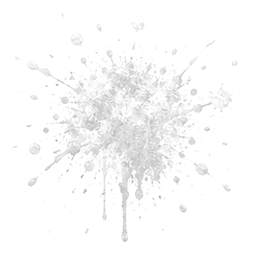
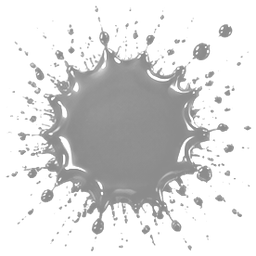
Кровь из атласа (тушь, в игре — тон крови с влажным бликом): круглые брызги, вытянутые полосы по ходу полёта капель, растёкшаяся лужа под павшим; при попадании — веер брызг крупным планом (4 кадра: вылет, разлёт, капли), развёрнут по экранному направлению удара
Claude-Session: https://claude.ai/code/session_01JqUpyqddoJCmPqfiUgmopw

diff --git a/Assets/_Project/Scripts/Game/Juice.cs b/Assets/_Project/Scripts/Game/Juice.cs
@@ -19,7 +19,7 @@ namespace BladePath
         ParticleSystem footFx;
         ParticleSystem petals;
         AudioSource ambient, crickets;
-        Material fxMat, softMat, splatMat, fogMat, dustMat, crackMat;
+        Material fxMat, softMat, splatMat, fogMat, dustMat, crackMat, streakMat, poolMat, burstMat;
         const int MaxDecals = 220;
         readonly List<Decal> decals = new List<Decal>();
         int decalIdx;
@@ -62,6 +62,12 @@ namespace BladePath
                 fogMat = new Material(sh); fogMat.mainTexture = SoftSprites.Fog;
                 Texture2D dp = Resources.Load<Texture2D>("FX/dust_puff");   // клубы пыли из атласа (фото-облачко)
                 dustMat = new Material(sh); dustMat.mainTexture = dp != null ? dp : SoftSprites.Fog;
+                // варианты пятен (атлас тушью, в игре — тон крови): вытянутая полоса по ходу полёта и растёкшаяся лужа
+                Texture2D bst = Resources.Load<Texture2D>("FX/blood_streak"), bpl = Resources.Load<Texture2D>("FX/blood_pool");
+                streakMat = bst != null ? new Material(sh) { mainTexture = bst } : splatMat;
+                poolMat = bpl != null ? new Material(sh) { mainTexture = bpl } : splatMat;
+                Texture2D bb = Resources.Load<Texture2D>("FX/blood_burst");
+                if (bb != null) burstMat = new Material(sh) { mainTexture = bb };
                 Texture2D cr = Resources.Load<Texture2D>("FX/ground_crack");
                 if (cr != null) { crackMat = new Material(sh); crackMat.mainTexture = cr; }
             }
@@ -529,8 +535,9 @@ namespace BladePath
             Spray(pos, cone, count, 3.5f * Mathf.Lerp(0.9f, 1.4f, Mathf.Clamp01(strength - 0.5f)), 36f);
             // 2) веер вперёд по ходу клинка (длинные тонкие капли)
             Spray(pos, dir, Mathf.RoundToInt(count * 0.4f), 6.5f * Mathf.Lerp(0.9f, 1.3f, Mathf.Clamp01(strength - 0.5f)), 14f);
-            // 3) кровавая взвесь
+            // 3) кровавая взвесь и веер брызг крупным планом (покадровый спрайт из атласа: вылет — разлёт — капли)
             Mist(pos, cone, 10 + Mathf.RoundToInt(10 * strength), 0.9f);
+            BloodBurst(pos, (dir * 0.85f + Vector3.up * 0.3f).normalized, (0.42f + 0.28f * Mathf.Clamp01(strength)) * (kill ? 1.35f : 1f));
             // 4) пятна на земле там, куда долетели капли
             int splats = Mathf.RoundToInt(14 * strength) + (kill ? 18 : 0);
             for (int i = 0; i < splats; i++)
@@ -778,6 +785,66 @@ namespace BladePath
             r.GetPropertyBlock(mpb);
             mpb.SetColor("_Color", new Color(0.06f, 0.05f, 0.045f, 0.8f));
             r.SetPropertyBlock(mpb);
+        }
+
+        // ---- веер брызг при попадании: 4 кадра (лист 2×2) за 0,26 с, плоскость к камере, вылет по экранной проекции удара
+        class Burst { public Transform t; public Renderer r; public float born, size; public Vector3 pos, dir; }
+        readonly List<Burst> bursts = new List<Burst>();
+        static Mesh[] burstFrames;
+        const float BurstLife = 0.26f;
+
+        void BloodBurst(Vector3 pos, Vector3 dir, float size)
+        {
+            if (burstMat == null) return;
+            if (burstFrames == null)
+            {
+                burstFrames = new Mesh[4];
+                for (int i = 0; i < 4; i++)
+                {
+                    float u0 = (i % 2) * 0.5f, v0 = 0.5f - (i / 2) * 0.5f;
+                    Mesh m = new Mesh { name = "BurstFrame" + i };
+                    m.vertices = new[] { new Vector3(-0.5f, -0.5f, 0f), new Vector3(0.5f, -0.5f, 0f), new Vector3(0.5f, 0.5f, 0f), new Vector3(-0.5f, 0.5f, 0f) };
+                    m.uv = new[] { new Vector2(u0, v0), new Vector2(u0 + 0.5f, v0), new Vector2(u0 + 0.5f, v0 + 0.5f), new Vector2(u0, v0 + 0.5f) };
+                    m.triangles = new[] { 0, 2, 1, 0, 3, 2 };
+                    m.RecalculateBounds();
+                    burstFrames[i] = m;
+                }
+            }
+            Burst b = null;
+            for (int i = 0; i < bursts.Count; i++) if (!bursts[i].t.gameObject.activeSelf) { b = bursts[i]; break; }
+            if (b == null && bursts.Count < 4)
+            {
+                GameObject g = new GameObject("BloodBurst");
+                g.AddComponent<MeshFilter>();
+                MeshRenderer mr = g.AddComponent<MeshRenderer>(); mr.sharedMaterial = burstMat;
+                mr.shadowCastingMode = UnityEngine.Rendering.ShadowCastingMode.Off; mr.receiveShadows = false;
+                b = new Burst { t = g.transform, r = mr };
+                bursts.Add(b);
+            }
+            if (b == null) { b = bursts[0]; float oldest = b.born; foreach (Burst x in bursts) if (x.born < oldest) { oldest = x.born; b = x; } }
+            b.born = Time.time; b.size = size; b.pos = pos; b.dir = dir.sqrMagnitude > 1e-4f ? dir.normalized : Vector3.right;
+            b.t.gameObject.SetActive(true);
+            PoseBurst(b);
+        }
+
+        void PoseBurst(Burst b)
+        {
+            float age = (Time.time - b.born) / BurstLife;
+            if (age >= 1f) { b.t.gameObject.SetActive(false); return; }
+            int fr = Mathf.Min(3, (int)(age * 4f));
+            b.t.GetComponent<MeshFilter>().sharedMesh = burstFrames[fr];
+            Camera cam = Camera.main;
+            Vector3 f = cam != null ? cam.transform.forward : Vector3.forward;
+            Vector3 r = b.dir - f * Vector3.Dot(b.dir, f);
+            if (r.sqrMagnitude < 1e-4f) r = cam != null ? cam.transform.right : Vector3.right;
+            r.Normalize();
+            Vector3 up = Vector3.Cross(f, r);
+            b.t.rotation = Quaternion.LookRotation(f, up);
+            float s = b.size * (1f + 0.15f * age);
+            b.t.localScale = new Vector3(s, s, 1f);
+            b.t.position = b.pos + r * (0.42f * s) + up * (0.35f * s);   // начало брызг (левый нижний угол кадра) — в точке удара
+            mpb.SetColor("_Color", new Color(0.42f, 0.015f, 0.02f, 0.95f * (age < 0.75f ? 1f : (1f - age) / 0.25f)));
+            b.r.SetPropertyBlock(mpb);
         }
 
         /// <summary>Новый раунд: трещины заделаны.</summary>
@@ -1185,7 +1252,12 @@ namespace BladePath
             float yaw = dir.sqrMagnitude > 1e-4f ? Mathf.Atan2(dir.x, dir.y) * Mathf.Rad2Deg : Random.Range(0f, 360f);
             d.t.position = new Vector3(pos.x, 0.012f + (decalIdx % 7) * 0.0006f, pos.z);
             d.t.rotation = Quaternion.Euler(90f, yaw, 0f);
-            float stretch = dir.sqrMagnitude > 1e-4f ? Random.Range(1.0f, 1.8f) : 1f;
+            // лужа под павшим, вытянутые полосы по ходу брызг (капли улетают дальше), остальное — круглые брызги
+            bool streak = grow <= 0f && dir.sqrMagnitude > 1e-4f && Random.value < 0.5f;
+            Material dm = grow > 0f ? poolMat : streak ? streakMat : splatMat;
+            if (dm != null && d.r.sharedMaterial != dm) d.r.sharedMaterial = dm;
+            float stretch = streak ? Random.Range(1.0f, 1.3f) : dir.sqrMagnitude > 1e-4f ? Random.Range(1.0f, 1.6f) : 1f;
+            if (streak) size *= 1.35f;
             d.size = size; d.grow = grow;
             d.t.localScale = new Vector3(size, size * stretch, 1f) * (grow > 0f ? 0.1f : 1f);
             d.born = Time.unscaledTime + delay; d.life = life;
@@ -1195,6 +1267,7 @@ namespace BladePath
 
         void LateUpdate()
         {
+            for (int i = 0; i < bursts.Count; i++) if (bursts[i].t != null && bursts[i].t.gameObject.activeSelf) PoseBurst(bursts[i]);
             for (int i = 0; i < decals.Count; i++)
             {
                 Decal d = decals[i];

diff --git a/tools/texgen/process7.py b/tools/texgen/process7.py
@@ -1,0 +1,55 @@
+"""Атлас 7 — тушь на зелёном (в игре красится в кровь): пятна на земле (4 варианта), покадровые брызги удара (2×2),
+
+usage: cd tools/texgen && python3 process7.py"""
+import numpy as np
+from PIL import Image
+from scipy import ndimage
+R = '../../Assets/_Project/'
+E = [(6, 310), (318, 622), (630, 934), (943, 1247)]
+src = np.asarray(Image.open('atlas_src/atlas7_ink.png').convert('RGB')).astype(np.float32) / 255
+cells = {}
+for r, (y0, y1) in enumerate(E):
+    for c, (x0, x1) in enumerate(E):
+        cells[r * 4 + c + 1] = src[y0 + 3:y1 - 3, x0 + 3:x1 - 3]
+
+def key(c):
+    m = c[..., 1] - np.maximum(c[..., 0], c[..., 2])
+    a = np.clip((0.8 - m) / (0.8 - 0.12), 0, 1)
+    rgb = np.clip((c - (1 - a[..., None]) * np.array([0, 1, 0])) / np.maximum(a[..., None], 1e-3), 0, 1)
+    rgb[..., 1] = np.minimum(rgb[..., 1], np.maximum(rgb[..., 0], rgb[..., 2]))   # зелёная кайма
+    return rgb, a
+
+def gloss_mask(rgb, a):
+    """Серый для тона в игре: тело пятна 0,55, блики туши светлее (влажный блеск), альфа — покрытие."""
+    lum = rgb.mean(-1)
+    v = np.clip(0.55 + 0.9 * lum, 0, 1)
+    return np.dstack([v, v, v, a])
+
+def to_img(o, W, H, rot=0):
+    im = Image.fromarray((np.clip(o, 0, 1) * 255 + 0.5).astype(np.uint8), 'RGBA')
+    if rot: im = im.rotate(rot, expand=True)
+    return im.resize((W, H), Image.LANCZOS)
+
+def crop_sq(o, pad=6):
+    a = o[..., 3]; ys, xs = np.nonzero(a > 0.04)
+    y0, y1, x0, x1 = ys.min(), ys.max() + 1, xs.min(), xs.max() + 1
+    cy, cx = (y0 + y1) // 2, (x0 + x1) // 2; s = max(y1 - y0, x1 - x0) // 2 + pad
+    out = np.zeros((2 * s, 2 * s, 4), np.float32)
+    yy0, xx0 = cy - s, cx - s
+    sy0, sx0 = max(0, yy0), max(0, xx0); sy1, sx1 = min(o.shape[0], cy + s), min(o.shape[1], cx + s)
+    out[sy0 - yy0:sy1 - yy0, sx0 - xx0:sx1 - xx0] = o[sy0:sy1, sx0:sx1]
+    return out
+
+# --- пятна на земле: круг, полоса (поток вдоль +v: густо внизу, капли уходят вверх), лужа, россыпь капель
+for k, name, rot in [(1, 'blood_splat', 0), (2, 'blood_streak', 90), (4, 'blood_pool', 0)]   # россыпь капель (ячейка 3) — глянцевые шарики, на земле читались как бусины:
+    o = crop_sq(gloss_mask(*key(cells[k])))
+    to_img(o, 256, 256, rot).save(R + 'Resources/FX/' + name + '.png')
+
+# --- брызги удара, 4 кадра (вылет вправо из левого нижнего угла) → лист 2×2
+sheet = Image.new('RGBA', (512, 512), (0, 0, 0, 0))
+for i, k in enumerate([13, 14, 15, 16]):
+    o = gloss_mask(*key(cells[k]))
+    sheet.paste(to_img(o, 256, 256), ((i % 2) * 256, (i // 2) * 256))
+sheet.save(R + 'Resources/FX/blood_burst.png')
+
+# маску ран из атласа пробовал — прежняя (tools/texgen/wound_mask.py: круглые пятна с потёками вниз) читается лучше, оставлена
